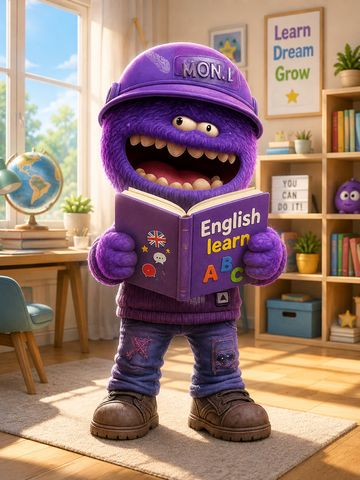
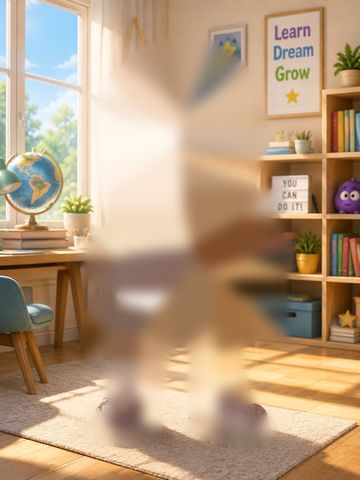
English Air: MON.L map may mieng that, va khong con khoa cuoc goi
Thay bao nhan vat dung yen va khong noi gi. Ba nguyen nhan:

1. App moi cai chua hoc bai nao thi nut goi bi KHOA - thay chi thay tam anh
   tinh o the Goi Air. Nay bo khoa, co san doan chao hoi STARTER_DIALOGUE.
2. iOS chi cho phat tieng lan dau ngay trong luc bam nut, ma cau dau cua MON.L
   lai den sau mot luot cho mang -> im lang khong bao loi. Them primeSpeech()
   goi ngay trong cac trinh xu ly bam nut.
3. Cu dong qua nhe (3px trong 4.6 giay) nen nhin nhu dung im.

- assets/mon-closed.png + mon-mouth.png: tach cai mieng dang ha thanh lop rieng,
  than nguoi duoc lap cho mieng bang long xung quanh -> bop scaleY lop mieng la
  nhan vat mo/ngam mieng that su, khong con chi nhun nguoi
- Cu dong manh hon han: tho + doi trong tam khi dung, dung dua + nhun khi noi,
  nhoai nguoi khi nghe; mieng map may lien tuc 240ms suot luc noi
- The Goi Air thay anh tinh bang chinh khung canh song, bam vao la MON.L chao
- call-card.jpg dung lai tu can phong DA xoa nhan vat (truoc bi hai MON.L)
- sw.js -> english-air-v17

diff --git a/public/english-air/style.css b/public/english-air/style.css
@@ -689,9 +689,21 @@ svg[viewBox="0 0 24 24"] { fill: none; stroke: currentColor; stroke-width: 2; st
 
 /* ---------- 15b. GỌI VIDEO LUYỆN NÓI ---------- */
 .call-hero { text-align: center; padding: var(--s5) 0 var(--s4); }
-.call-preview { position: relative; width: 172px; aspect-ratio: 3 / 4; margin: 0 auto var(--s4);
-  border-radius: 20px; overflow: hidden; box-shadow: var(--sh-2); }
+.call-preview { position: relative; display: block; width: 186px; aspect-ratio: 3 / 4;
+  margin: 0 auto var(--s4); padding: 0; border: 0; border-radius: 20px; overflow: hidden;
+  background: var(--muted); box-shadow: var(--sh-2); cursor: pointer; }
 .cp-room { position: absolute; inset: 0; width: 100%; height: 100%; object-fit: cover; }
+/* Đặt MON.L đúng chỗ cũ trong tấm ảnh 3:4, rồi cho cử động y như trong cuộc gọi. */
+.cp-mon { position: absolute; left: 23.481%; top: 8.564%; width: 56.906%; height: 84.185%;
+  transform-origin: 50% 100%; animation: monBreathe 4.2s ease-in-out infinite; }
+.cp-mon .mon-beat { display: block; position: relative; width: 100%; height: 100%; transform-origin: 50% 100%; }
+.cp-mon.talking { animation: monTalk 1.25s ease-in-out infinite; }
+.cp-mon.talking .mon-mouth { animation: monMouth 240ms ease-in-out infinite; }
+.cp-mon.pulse .mon-beat { animation: monBeat 200ms var(--e); }
+.cp-tap { position: absolute; left: 50%; bottom: 8px; transform: translateX(-50%);
+  display: flex; align-items: center; gap: 6px; padding: 5px 12px; border-radius: var(--rf);
+  background: rgba(20,8,38,.72); color: #fff; font-size: .74rem; font-weight: 800; white-space: nowrap; }
+.call-preview:active { transform: scale(.98); }
 .call-hero h1 { font-size: 1.6rem; margin-bottom: var(--s2); }
 .call-info { display: flex; flex-direction: column; gap: var(--s4); }
 .ci-row { display: flex; gap: var(--s3); align-items: flex-start; }
@@ -731,39 +743,51 @@ svg[viewBox="0 0 24 24"] { fill: none; stroke: currentColor; stroke-width: 2; st
   transform-origin: 50% 100%; will-change: transform;
   animation: monIn 700ms var(--e) both, monBreathe 4.6s ease-in-out 700ms infinite;
 }
-.call-mon .mon-beat { display: block; width: 100%; height: 100%; transform-origin: 50% 100%; }
-.call-mon img { width: 100%; height: 100%; display: block; }
+.call-mon .mon-beat { display: block; position: relative; width: 100%; height: 100%; transform-origin: 50% 100%; }
+.mon-base, .mon-mouth { position: absolute; inset: 0; width: 100%; height: 100%; display: block; }
+/* Lớp miệng bóp lại quanh mép trên của cái miệng, nên trông đúng như đang ngậm. */
+.mon-mouth { transform-origin: 50% 23.14%; transform: scaleY(.16); will-change: transform; }
 
 @keyframes monIn {
-  0%   { opacity: 0; transform: translateY(2.4%) scale(.965); }
+  0%   { opacity: 0; transform: translateY(5%) scale(.92); }
+  60%  { opacity: 1; transform: translateY(-1.2%) scale(1.02); }
   100% { opacity: 1; transform: translateY(0) scale(1); }
 }
-/* Đứng yên: thở nhẹ. */
+/* Đứng yên: thở, và thỉnh thoảng đảo người — đứng im như tượng thì trông như ảnh chụp. */
 @keyframes monBreathe {
-  0%, 100% { transform: translateY(0) scale(1); }
-  50%      { transform: translateY(-.7%) scale(1.006); }
+  0%, 100% { transform: translateY(0) rotate(-.8deg) scale(1, 1); }
+  25%      { transform: translateY(-2.2%) rotate(0deg) scale(.992, 1.016); }
+  50%      { transform: translateY(-.4%) rotate(.9deg) scale(1.006, .996); }
+  75%      { transform: translateY(-1.8%) rotate(0deg) scale(.994, 1.012); }
 }
-/* Đang nói: đung đưa như người thật đang kể chuyện. */
-.call-mon.talking { animation: monTalk 1.5s ease-in-out infinite; }
+/* Đang nói: đung đưa, dồn trọng tâm qua lại như người thật đang kể chuyện. */
+.call-mon.talking { animation: monTalk 1.25s ease-in-out infinite; }
 @keyframes monTalk {
-  0%   { transform: translateY(0)     rotate(-.9deg) scale(1); }
-  22%  { transform: translateY(-1.1%) rotate(.2deg)  scale(1.010, .994); }
-  46%  { transform: translateY(-.2%)  rotate(1deg)   scale(1.004); }
-  70%  { transform: translateY(-1%)   rotate(.1deg)  scale(1.012, .992); }
-  100% { transform: translateY(0)     rotate(-.9deg) scale(1); }
+  0%   { transform: translate(-1.4%, 0)     rotate(-2.4deg) scale(1, 1); }
+  25%  { transform: translate(-.4%, -3.2%)  rotate(-.4deg)  scale(.978, 1.03); }
+  50%  { transform: translate(1.4%, -.6%)   rotate(2.4deg)  scale(1.02, .976); }
+  75%  { transform: translate(.4%, -3%)     rotate(.4deg)   scale(.982, 1.026); }
+  100% { transform: translate(-1.4%, 0)     rotate(-2.4deg) scale(1, 1); }
 }
-/* Nảy một nhịp mỗi tiếng phát ra, cho khớp với lời. */
-.call-mon.pulse .mon-beat { animation: monBeat 190ms var(--e); }
+/* Miệng mấp máy liên tục suốt lúc nói — đây mới là cái làm nó ra chất hoạt hình. */
+.call-mon.talking .mon-mouth { animation: monMouth 240ms ease-in-out infinite; }
+@keyframes monMouth {
+  0%   { transform: scaleY(.16); }
+  45%  { transform: scaleY(1); }
+  100% { transform: scaleY(.16); }
+}
+/* Mỗi tiếng phát ra thì nhấn thêm một nhịp, cho khớp trọng âm. */
+.call-mon.pulse .mon-beat { animation: monBeat 200ms var(--e); }
 @keyframes monBeat {
   0%   { transform: scale(1, 1); }
-  42%  { transform: scale(1.018, .972); }
+  40%  { transform: scale(1.04, .955); }
   100% { transform: scale(1, 1); }
 }
-/* Đang nghe: nhoài người về phía người học một chút. */
-.call-mon.listening { animation: monLean 2.4s ease-in-out infinite; }
+/* Đang nghe: nhoài người tới, gật nhẹ như đang chăm chú nghe. */
+.call-mon.listening { animation: monLean 1.9s ease-in-out infinite; }
 @keyframes monLean {
-  0%, 100% { transform: translateY(0) scale(1.010); }
-  50%      { transform: translateY(-.4%) scale(1.016); }
+  0%, 100% { transform: translateY(0) rotate(-1deg) scale(1.02); }
+  50%      { transform: translateY(-1.6%) rotate(1deg) scale(1.035); }
 }
 
 /* ----- Thanh trên: chữ trắng nổi trên cảnh ----- */

diff --git a/public/english-air/app.js b/public/english-air/app.js
@@ -171,6 +171,22 @@ function speak(text, slow) {
 }
 const stopSpeak = () => { if (window.speechSynthesis) speechSynthesis.cancel(); };
 
+/* iPhone/iPad chỉ cho phát tiếng lần đầu ngay trong lúc ngón tay còn chạm màn hình.
+   Câu nói đầu của MON.L lại đến sau một lượt chờ mạng, nên phải "mồi" sẵn lúc bấm nút,
+   không thì cả cuộc gọi im lặng mà chẳng báo lỗi gì. */
+let speechPrimed = false;
+function primeSpeech() {
+  if (!window.speechSynthesis) return;
+  pickVoice();
+  if (speechPrimed) return;
+  speechPrimed = true;
+  try {
+    const u = new SpeechSynthesisUtterance(" ");
+    u.volume = 0; u.lang = "en-US";
+    speechSynthesis.speak(u);
+  } catch { /* bỏ qua */ }
+}
+
 /* ---------- 4. Truy vấn khoá học ---------- */
 const level = () => COURSE.levels.find(l => l.id === S.level) || COURSE.levels[0];
 const lessonsOf = lv => lv.units.flatMap(u => u.lessons.map(l => ({ ...l, unit: u })));
@@ -1098,9 +1114,22 @@ function similar(heardText, target) {
   return hit / b.length;
 }
 
+/* Chưa học bài nào vẫn phải gọi được — không thì mở app ra chỉ thấy một tấm ảnh đứng im. */
+const STARTER_DIALOGUE = {
+  title: "Chào hỏi",
+  lines: [
+    { who: "A", en: "Hi! I am MON.L. What is your name?", vi: "Chào! Tớ là MON.L. Bạn tên gì?" },
+    { who: "B", en: "My name is Nam.", vi: "Tớ tên Nam." },
+    { who: "A", en: "Nice to meet you! How are you today?", vi: "Rất vui được gặp bạn! Hôm nay bạn khoẻ không?" },
+    { who: "B", en: "I am fine, thank you.", vi: "Tớ khoẻ, cảm ơn bạn." },
+    { who: "A", en: "Where are you from?", vi: "Bạn đến từ đâu?" },
+    { who: "B", en: "I am from Viet Nam.", vi: "Tớ đến từ Việt Nam." },
+    { who: "A", en: "Very good! See you tomorrow.", vi: "Giỏi lắm! Hẹn gặp lại ngày mai." },
+  ],
+};
+
 function renderCall() {
   const n = callDialogues().length;
-  $("#btnStartCall").disabled = n === 0;
   $("#callLocked").hidden = n > 0;
   $("#callMicNote").textContent = SR
     ? "Lần đầu bấm micro, trình duyệt sẽ hỏi quyền dùng micro — chọn Cho phép."
@@ -1179,7 +1208,7 @@ function startCall(mode) {
 
   if (mode === "script") {
     const pool = callDialogues();
-    const d = pool[Math.floor(Math.random() * pool.length)];
+    const d = pool.length ? pool[Math.floor(Math.random() * pool.length)] : STARTER_DIALOGUE;
     C.lines = d.lines.slice();
     C.asked = d.lines.filter(x => x.who === "B").length;
     nextScriptLine();
@@ -1247,7 +1276,7 @@ async function askTutor(first) {
       title: "Chưa gọi tự do được",
       body: "Chế độ nói chuyện tự do cần mạng. Bạn chuyển sang luyện hội thoại trong bài nhé — cái này chạy được cả khi không có mạng.",
       yes: "Luyện hội thoại trong bài", no: "Đóng",
-      onYes() { callDialogues().length ? startCall("script") : endCall(false); }
+      onYes() { startCall("script"); }
     });
   }
 }
@@ -1366,9 +1395,9 @@ function sendTyped() {
   $("#callInput").value = "";
   heardReply(v);
 }
-$("#btnStartFree").addEventListener("click", () => startCall("free"));
-$("#btnStartCall").addEventListener("click", () => startCall("script"));
-$("#btnMic").addEventListener("click", () => C.listening ? stopListening() : startListening());
+$("#btnStartFree").addEventListener("click", () => { primeSpeech(); startCall("free"); });
+$("#btnStartCall").addEventListener("click", () => { primeSpeech(); startCall("script"); });
+$("#btnMic").addEventListener("click", () => { primeSpeech(); C.listening ? stopListening() : startListening(); });
 $("#btnHangup").addEventListener("click", () => endCall(true));
 $("#btnCallLog").addEventListener("click", () => {
   const on = $("#call").classList.toggle("show-log");
@@ -1376,7 +1405,34 @@ $("#btnCallLog").addEventListener("click", () => {
   if (on) { const l = $("#callLog"); l.scrollTop = l.scrollHeight; }
   fitScene();
 });
-$("#btnCallHear").addEventListener("click", () => speak($("#callSaid").textContent));
+$("#btnCallHear").addEventListener("click", () => { primeSpeech(); speak($("#callSaid").textContent); });
+
+/* Thẻ Gọi Air: bấm vào là MON.L chào ngay — để thấy nó cử động và nói được thật. */
+const PREVIEW_LINES = [
+  { en: "Hi! I am MON.L. Let us speak English!", vi: "Chào! Tớ là MON.L. Mình nói tiếng Anh nhé!" },
+  { en: "Tap the green button and talk to me.", vi: "Bấm nút xanh rồi nói chuyện với tớ nhé." },
+  { en: "Do not worry. Just try your best!", vi: "Đừng lo. Cứ thử hết sức nhé!" },
+];
+let previewTurn = 0;
+$("#callPreview").addEventListener("click", () => {
+  primeSpeech();
+  const line = PREVIEW_LINES[previewTurn++ % PREVIEW_LINES.length];
+  const box = $("#previewMon");
+  toast(line.vi);
+  box.classList.add("talking");
+  let ended = false;
+  const stop = () => { if (ended) return; ended = true; box.classList.remove("talking", "pulse"); };
+  if (!S.sound || !window.speechSynthesis) { setTimeout(stop, 600 + line.en.length * 45); return; }
+  try {
+    speechSynthesis.cancel();
+    const u = new SpeechSynthesisUtterance(line.en);
+    u.lang = "en-US"; if (voice) u.voice = voice; u.rate = 0.94;
+    u.onboundary = () => { box.classList.remove("pulse"); void box.offsetWidth; box.classList.add("pulse"); };
+    u.onend = stop; u.onerror = stop;
+    speechSynthesis.speak(u);
+    setTimeout(stop, 1400 + line.en.length * 95);
+  } catch { stop(); }
+});
 $("#btnCallSkip").addEventListener("click", showChoices);
 $("#btnCallSend").addEventListener("click", sendTyped);
 $("#callInput").addEventListener("keydown", e => { if (e.key === "Enter") sendTyped(); });

diff --git a/public/english-air/index.html b/public/english-air/index.html
@@ -298,9 +298,12 @@
       <!-- ================= GỌI VIDEO ================= -->
       <section class="view" id="view-call" hidden aria-labelledby="callTitle">
         <div class="call-hero">
-          <div class="call-preview" aria-hidden="true">
+          <button class="call-preview" id="callPreview" type="button"
+                  aria-label="Bấm để nghe MON.L chào">
             <img class="cp-room" src="assets/call-card.jpg" alt="" decoding="async" />
-          </div>
+            <span class="cp-mon" id="previewMon"><span class="mon-beat"><img class="mon-base" src="assets/mon-closed.png" alt="" decoding="async" /><img class="mon-mouth" src="assets/mon-mouth.png" alt="" decoding="async" /></span></span>
+            <span class="cp-tap"><svg class="ic ic-sm" viewBox="0 0 24 24" aria-hidden="true"><use href="#i-sound"/></svg>Bấm để nghe</span>
+          </button>
           <h1 id="callTitle">Gọi video với MON.L</h1>
           <p class="sub">Luyện nói bằng chính những đoạn hội thoại bạn đã học. MON.L nói trước, bạn trả lời — app nghe và chấm ngay.</p>
         </div>
@@ -315,7 +318,7 @@
         <p class="fine" id="callMicNote"></p>
         <button class="btn btn-primary btn-block mt" id="btnStartFree" type="button">Gọi nói chuyện tự do</button>
         <button class="btn btn-soft btn-block mt" id="btnStartCall" type="button">Luyện hội thoại trong bài</button>
-        <p class="fine" id="callLocked" hidden>Học xong ít nhất một bài có hội thoại thì mới gọi được.</p>
+        <p class="fine" id="callLocked" hidden>Bạn chưa học bài nào có hội thoại — MON.L sẽ dùng đoạn chào hỏi cơ bản.</p>
       </section>
 
       <!-- ================= GIẢI ĐẤU ================= -->
@@ -504,7 +507,7 @@
   <div class="call-scene" aria-hidden="true">
     <div class="scene-fit">
       <img class="scene-room" src="assets/mon-room.jpg" alt="" decoding="async" />
-      <div class="call-mon" id="callMascot"><span class="mon-beat"><img src="assets/mon-stand.png" alt="" decoding="async" /></span></div>
+      <div class="call-mon" id="callMascot"><span class="mon-beat"><img class="mon-base" src="assets/mon-closed.png" alt="" decoding="async" /><img class="mon-mouth" src="assets/mon-mouth.png" alt="" decoding="async" /></span></div>
     </div>
     <div class="scene-veil"></div>
   </div>

diff --git a/public/english-air/sw.js b/public/english-air/sw.js
@@ -3,7 +3,7 @@
    Toàn bộ app chạy offline sau lần mở đầu tiên.
    Đổi CACHE khi sửa file để buộc tải lại bản mới.
    ============================================================ */
-const CACHE = "english-air-v16";
+const CACHE = "english-air-v17";
 
 const SHELL = [
   "./",
@@ -21,7 +21,8 @@ const SHELL = [
   "./icons/apple-touch-icon.png",
   "./assets/mascot.png",
   "./assets/mon-room.jpg",
-  "./assets/mon-stand.png",
+  "./assets/mon-closed.png",
+  "./assets/mon-mouth.png",
   "./assets/call-card.jpg"
 ];
 
